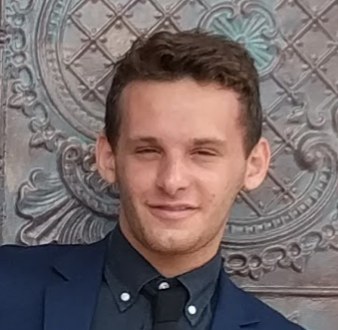
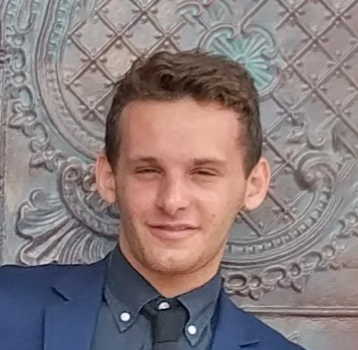
Update/the team (#384)
* Update team

Add / Reorder / Refine images of team

* another update to images

diff --git a/donkey-gatsby/src/components/TeamPage/TeamsData.ts b/donkey-gatsby/src/components/TeamPage/TeamsData.ts
@@ -8,6 +8,10 @@ import adarsh from "./images/adarsh.png";
 import vijay from "./images/vijay.jpg";
 import jason from "./images/jason.png";
 import deepak from "./images/deepak.jpeg";
+import ben from "./images/ben.jpg";
+import alon2 from "./images/alon2.jpeg";
+import shmuel from "./images/shmuel.jpg";
+import shira from "./images/shira.jpeg";
 
 export const TeamJSON: ITeamBoardProps[] = [
   {
@@ -17,22 +21,25 @@ export const TeamJSON: ITeamBoardProps[] = [
     twitterlink: "https://twitter.com/shpirman",
   },
   {
-    image: yon,
-    name: "Yonatan Martsiano",
-    designation: "Co-founder & Developer",
-    //linkedLink: "https://www.linkedin.com/in/yonatan-martsiano-6376a314a/",
-  },
-
-  {
     image: yanir,
     name: "Yanir Goldenberg",
     designation: "Co-founder",
     //linkedLink: "https://www.linkedin.com/in/yanir-goldenberg-61074887/",
   },
   {
+    image: ben,
+    name: "Ben Rosental",
+    designation: "Chief Technology Officer",
+  },
+  {
     image: adarsh,
     name: "Adarshdeep Singh",
     designation: "Co-founder & Senior Frontend Developer",
+  },
+  {
+    image: alon2,
+    name: "Alon Buchshtab",
+    designation: "Software Developer",
   },
   {
     image: vijay,
@@ -49,11 +56,28 @@ export const TeamJSON: ITeamBoardProps[] = [
     name: "Jason Kelman",
     designation: "Chief Marketing Officer",
   },
+
+  {
+    image: shmuel,
+    name: "Shmuel Azrad",
+    designation: "Fullstack Developer",
+  },
+  {
+    image: shira,
+    name: "Shira Avni",
+    designation: "UI/UX Designer",
+  },
   {
     image: alon,
     name: "Alon Hershberg",
     designation: "Advisor",
     // linkedLink: "https://www.linkedin.com/in/alon-herschberg-38876a13a/",
+  },
+  {
+    image: yon,
+    name: "Yonatan Martsiano",
+    designation: "Co-founder & Developer",
+    //linkedLink: "https://www.linkedin.com/in/yonatan-martsiano-6376a314a/",
   },
   // {
   //   image: daniel,

diff --git a/donkey-gatsby/src/components/TeamPage/TeamBoard/TeamBoard.tsx b/donkey-gatsby/src/components/TeamPage/TeamBoard/TeamBoard.tsx
@@ -35,6 +35,11 @@ const NextImage = styled.img`
   object-position: center;
   width: 174px;
   height: 174px !important;
+  filter: grayscale(1);
+  &:hover {
+    filter: grayscale(0);
+  }
+  transition: all 0.2s ease-in-out;
 `;
 
 const Heading3 = styled.h3`
